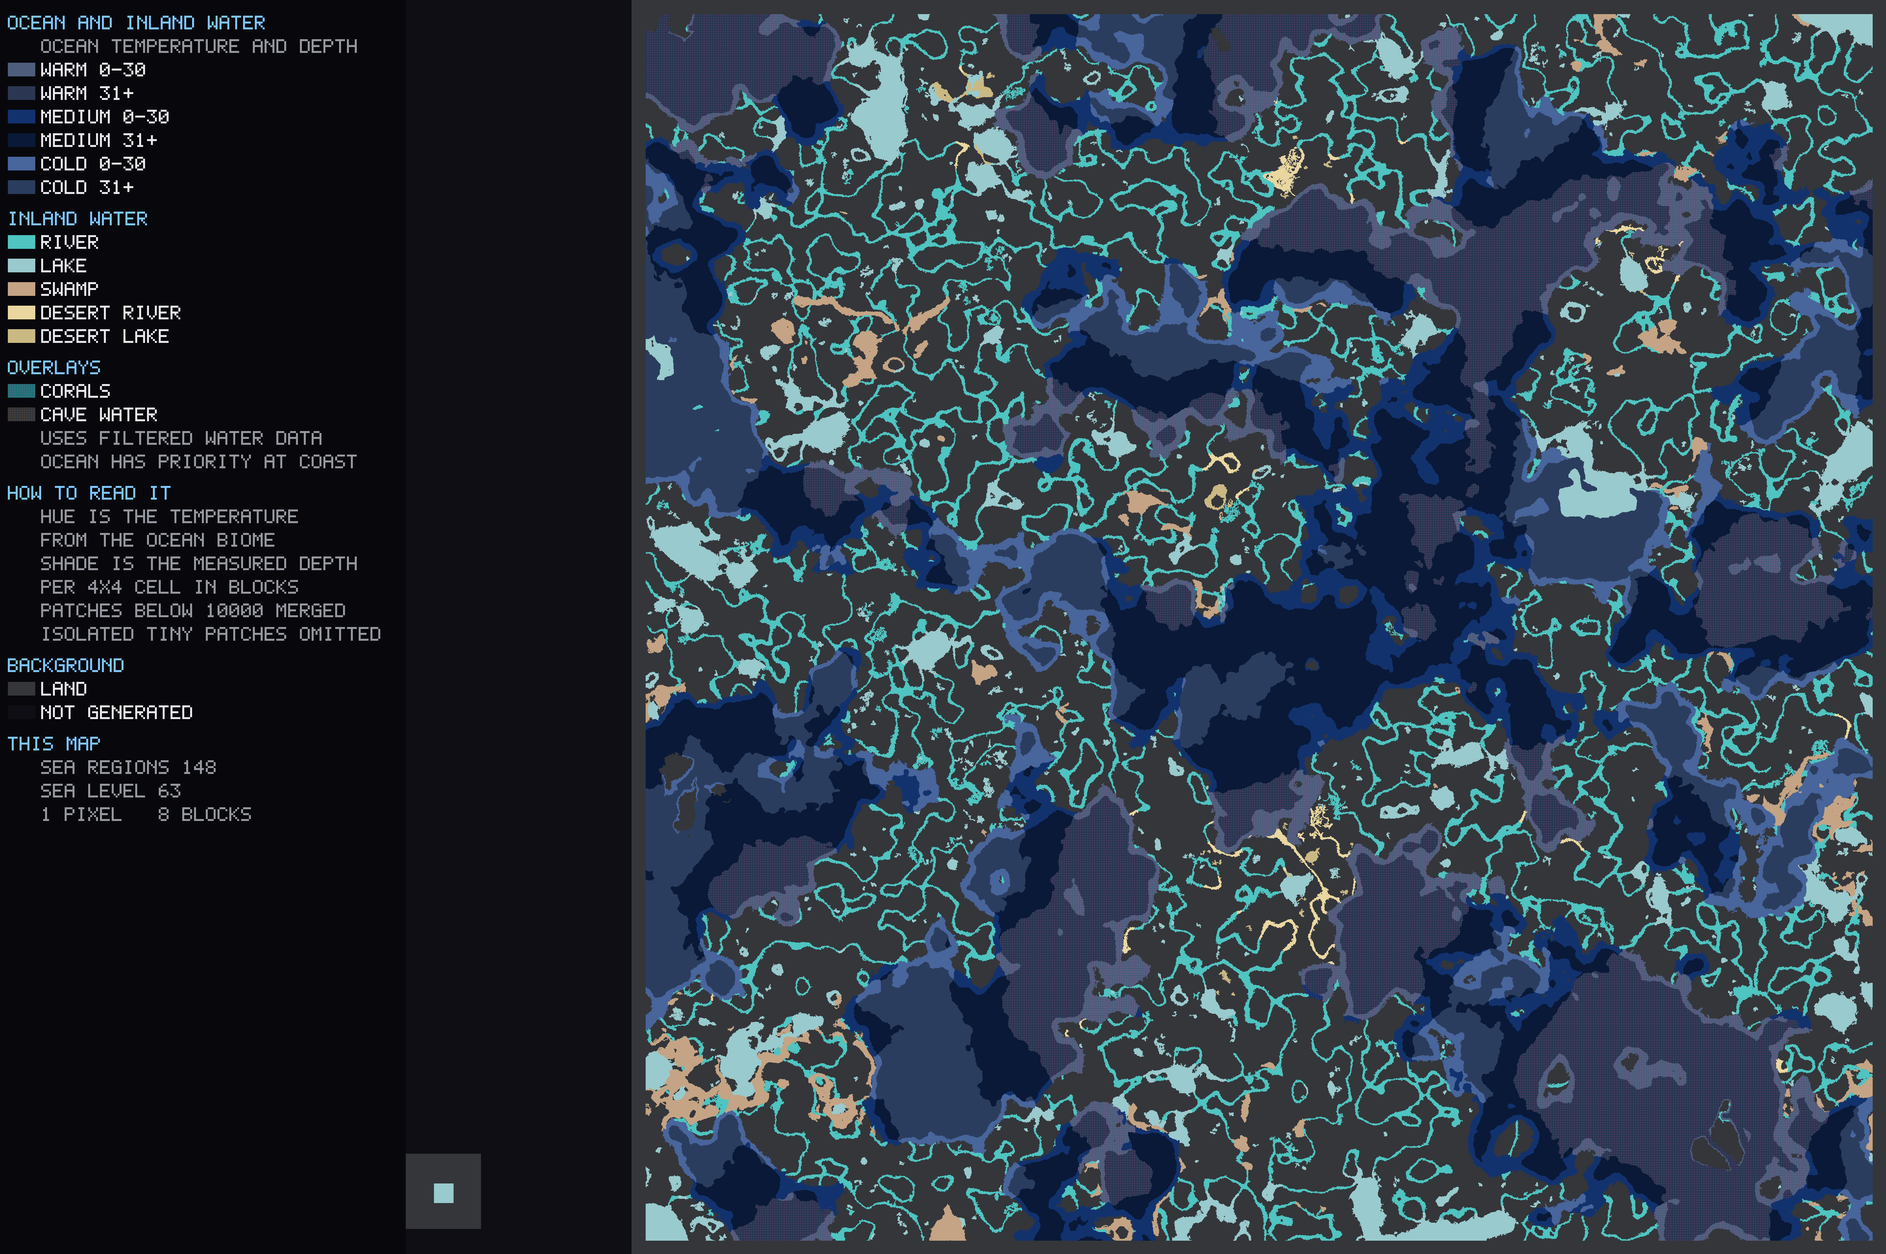
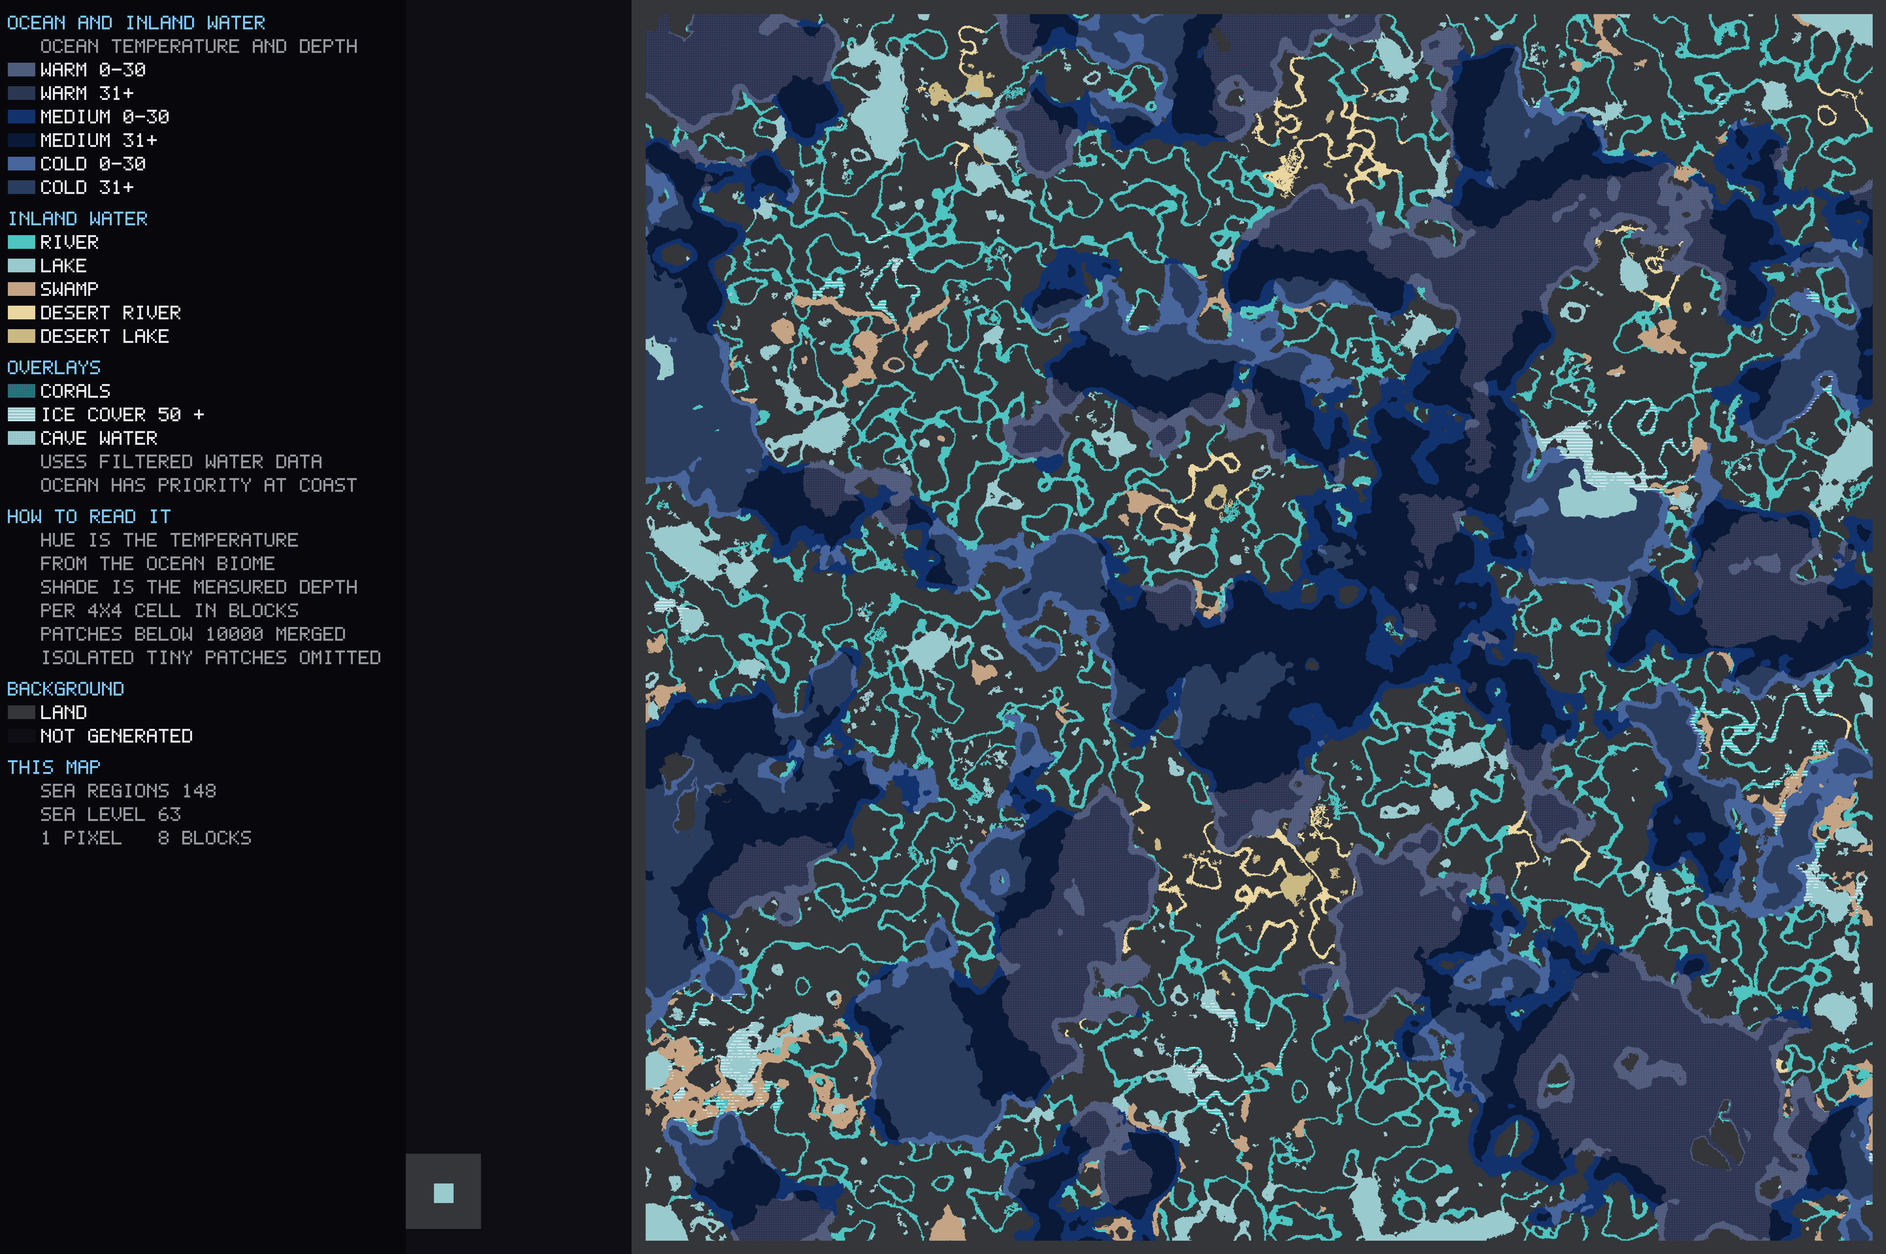
Render ice cover and classify vanilla badlands

diff --git a/src/debug/map.rs b/src/debug/map.rs
@@ -37,6 +37,7 @@ const RIVER_COLOR: [u8; 3] = [0x4f, 0xc4, 0xc1];
 const SWAMP_COLOR: [u8; 3] = [0xc4, 0xa4, 0x84];
 const CAVE_DOT_COLOR: [u8; 3] = [0x56, 0x5a, 0x60];
 const CORAL_DOT_COLOR: [u8; 3] = [0xff, 0x5a, 0xbe];
+const ICE_STRIPE_COLOR: [u8; 3] = [0xeb, 0xf8, 0xff];
 
 pub struct MapOptions {
     /// Blocks per pixel.
@@ -229,9 +230,6 @@ fn modifier_overlay(modifiers: Modifiers, x: usize, y: usize) -> Option<[u8; 3]>
     if let Some(color) = overview_modifier_overlay(modifiers, x, y) {
         return Some(color);
     }
-    if modifiers.contains(Modifiers::ICE) && (x + y) % 8 < 2 {
-        return Some([235, 248, 255]);
-    }
     if modifiers.contains(Modifiers::DESERT) && (x + 5 * y) % 11 < 2 {
         return Some([226, 200, 120]);
     }
@@ -241,19 +239,21 @@ fn modifier_overlay(modifiers: Modifiers, x: usize, y: usize) -> Option<[u8; 3]>
     None
 }
 
-/// Sparse overlays shared by the full classification and clean overview maps.
+/// Overlays shared by the full classification and clean overview maps.
 /// They only replace pixels already owned by a matching region; they never grow
-/// or fill its geometry. Cave dots sit on the normal river/lake/swamp colour so
-/// the water kind remains readable underneath the cave marker.
+/// or fill its geometry. Cave/coral dots and horizontal ice stripes sit on the
+/// normal water colour so the water kind remains readable underneath.
 fn overview_modifier_overlay(modifiers: Modifiers, x: usize, y: usize) -> Option<[u8; 3]> {
-    if x % 6 != 2 || y % 6 != 2 {
-        return None;
+    if x % 6 == 2 && y % 6 == 2 {
+        if modifiers.contains(Modifiers::CAVE) {
+            return Some(CAVE_DOT_COLOR);
+        }
+        if modifiers.contains(Modifiers::CORALS) {
+            return Some(CORAL_DOT_COLOR);
+        }
     }
-    if modifiers.contains(Modifiers::CAVE) {
-        return Some(CAVE_DOT_COLOR);
-    }
-    if modifiers.contains(Modifiers::CORALS) {
-        return Some(CORAL_DOT_COLOR);
+    if modifiers.contains(Modifiers::ICE) && y % 8 < 2 {
+        return Some(ICE_STRIPE_COLOR);
     }
     None
 }
@@ -861,17 +861,21 @@ fn inland_region_color(kind: WaterKind, modifiers: Modifiers) -> [u8; 3] {
 /// Paints the sea as a backdrop, then the inland water on top of it.
 ///
 /// Drawing order matters here and nowhere else: regions never overlap, but at
-/// eight blocks per pixel a river one chunk wide shares its pixel with the coast
-/// it runs into. Painting inland water last is what keeps it on the map.
+/// eight blocks per pixel several water kinds can share one output pixel. Lakes
+/// are painted first, then rivers, then swamps, so a mangrove-swamp pixel cannot
+/// be hidden by an adjacent lake. Inland water remains above the flat sea in the
+/// standalone inland view.
 fn paint_inland(canvas: &mut Canvas, regions: &[WaterRegion], p: &Projection, include_sea: bool) {
     // The combined view gives existing ocean pixels priority at shared coastal
     // pixels. The standalone inland view keeps its river-first presentation.
     let ocean_palette: Vec<_> = [Temperature::Warm, Temperature::Medium, Temperature::Cold]
         .into_iter().flat_map(|t| [ocean_color(t, false), ocean_color(t, true)]).collect();
-    for sea_pass in [true, false] {
-        if sea_pass && !include_sea { continue; }
+    for kind in [WaterKind::Sea, WaterKind::Lake, WaterKind::River, WaterKind::Swamp] {
+        if kind == WaterKind::Sea && !include_sea {
+            continue;
+        }
         for region in regions {
-            if (region.kind == WaterKind::Sea) != sea_pass {
+            if region.kind != kind {
                 continue;
             }
             let color = inland_region_color(region.kind, region.modifiers);
@@ -890,12 +894,13 @@ fn paint_inland(canvas: &mut Canvas, regions: &[WaterRegion], p: &Projection, in
     }
 }
 
-/// Add coral and underground-water markers without changing any base map shape.
+/// Add coral, underground-water and ice-cover markers without changing any base
+/// map shape.
 fn paint_overview_modifiers(canvas: &mut Canvas, regions: &[WaterRegion], p: &Projection) {
     for region in regions.iter().filter(|region| {
         region
             .modifiers
-            .intersects(Modifiers::CORALS | Modifiers::CAVE)
+            .intersects(Modifiers::CORALS | Modifiers::CAVE | Modifiers::ICE)
     }) {
         for run in &region.geometry.runs {
             let (xa, y) = p.px(run.x0, run.z);
@@ -929,6 +934,10 @@ fn inland_rows(regions: &[WaterRegion], blocks_per_pixel: u32) -> Vec<Row> {
         heading("OVERLAYS"),
         entry("CORALS", Swatch::Pattern(inland_color(WaterKind::Sea), Modifiers::CORALS)),
         entry(
+            "ICE COVER 50%+",
+            Swatch::Pattern(inland_color(WaterKind::Lake), Modifiers::ICE),
+        ),
+        entry(
             "CAVE WATER",
             Swatch::Pattern(inland_color(WaterKind::Lake), Modifiers::CAVE),
         ),
@@ -958,6 +967,10 @@ fn combined_rows(regions: &[WaterRegion], sea_level: i16, blocks_per_pixel: u32,
         entry("DESERT LAKE", Swatch::Color(inland_region_color(WaterKind::Lake, Modifiers::DESERT))),
         heading("OVERLAYS"),
         entry("CORALS", Swatch::Pattern(inland_color(WaterKind::Sea), Modifiers::CORALS)),
+        entry(
+            "ICE COVER 50%+",
+            Swatch::Pattern(inland_color(WaterKind::Lake), Modifiers::ICE),
+        ),
         entry(
             "CAVE WATER",
             Swatch::Pattern(inland_color(WaterKind::Lake), Modifiers::CAVE),
@@ -1309,7 +1322,37 @@ mod tests {
     }
 
     #[test]
-    fn overview_dots_are_sparse_and_cave_takes_priority() {
+    fn swamp_wins_when_lake_and_swamp_share_an_output_pixel() {
+        let p = Projection::new((0, 0, 15, 15), 8);
+        let mut swamp = region(1, WaterKind::Swamp, Temperature::Warm, Some(Depth::Shallow));
+        swamp.modifiers = Modifiers::MANGROVE;
+        swamp.geometry = RegionGeometry {
+            min_x: 0,
+            min_z: 0,
+            max_x: 0,
+            max_z: 0,
+            runs: vec![Run { z: 0, x0: 0, x1: 0 }],
+            column_count: 1,
+        };
+        let mut lake = region(2, WaterKind::Lake, Temperature::Medium, Some(Depth::Shallow));
+        lake.geometry = RegionGeometry {
+            min_x: 7,
+            min_z: 0,
+            max_x: 7,
+            max_z: 0,
+            runs: vec![Run { z: 0, x0: 7, x1: 7 }],
+            column_count: 1,
+        };
+
+        // Deliberately put the lake last. Kind-priority painting, rather than the
+        // input order, must decide the shared 8x8 map pixel.
+        let mut canvas = Canvas::new(2, 2, BG_LAND);
+        paint_inland(&mut canvas, &[swamp, lake], &p, false);
+        assert_eq!(&canvas.px[0..3], &inland_color(WaterKind::Swamp));
+    }
+
+    #[test]
+    fn overview_patterns_are_sparse_horizontal_and_cave_takes_priority() {
         assert_eq!(
             overview_modifier_overlay(Modifiers::CORALS, 2, 2),
             Some(CORAL_DOT_COLOR)
@@ -1324,6 +1367,19 @@ mod tests {
         );
         assert_eq!(overview_modifier_overlay(Modifiers::CORALS, 3, 2), None);
         assert_eq!(overview_modifier_overlay(Modifiers::CORALS, 2, 3), None);
+        for x in 0..16 {
+            assert_eq!(
+                overview_modifier_overlay(Modifiers::ICE, x, 0),
+                Some(ICE_STRIPE_COLOR),
+                "ice stripe must span the whole row"
+            );
+            assert_eq!(overview_modifier_overlay(Modifiers::ICE, x, 2), None);
+        }
+        assert_eq!(
+            overview_modifier_overlay(Modifiers::ICE | Modifiers::CAVE, 2, 2),
+            Some(CAVE_DOT_COLOR),
+            "cave dots must remain visible over ice"
+        );
         assert_eq!(overview_modifier_overlay(Modifiers::empty(), 2, 2), None);
     }
 
@@ -1354,6 +1410,40 @@ mod tests {
             assert_eq!(pixel(3, 2), inland_color(kind), "overlay is not sparse");
             assert_eq!(pixel(2, 1), BG_LAND, "pixel outside the run was marked");
         }
+    }
+
+    #[test]
+    fn ice_overlay_is_horizontal_and_stays_inside_region_geometry() {
+        let p = Projection::new((0, 0, 9, 9), 1);
+        let mut marked = region(0, WaterKind::Lake, Temperature::Cold, Some(Depth::Shallow));
+        marked.modifiers = Modifiers::ICE;
+        marked.geometry = RegionGeometry {
+            min_x: 2,
+            min_z: 0,
+            max_x: 6,
+            max_z: 2,
+            runs: vec![
+                Run { z: 0, x0: 2, x1: 6 },
+                Run { z: 1, x0: 2, x1: 6 },
+                Run { z: 2, x0: 2, x1: 6 },
+            ],
+            column_count: 15,
+        };
+        let mut canvas = Canvas::new(10, 10, BG_LAND);
+        paint_inland(&mut canvas, std::slice::from_ref(&marked), &p, true);
+        paint_overview_modifiers(&mut canvas, &[marked], &p);
+
+        let pixel = |x: usize, y: usize| {
+            let i = (y * canvas.w + x) * 3;
+            [canvas.px[i], canvas.px[i + 1], canvas.px[i + 2]]
+        };
+        for x in 2..=6 {
+            assert_eq!(pixel(x, 0), ICE_STRIPE_COLOR);
+            assert_eq!(pixel(x, 1), ICE_STRIPE_COLOR);
+            assert_eq!(pixel(x, 2), inland_color(WaterKind::Lake));
+        }
+        assert_eq!(pixel(1, 0), BG_LAND, "stripe grew outside the region");
+        assert_eq!(pixel(7, 1), BG_LAND, "stripe grew outside the region");
     }
 
     #[test]

diff --git a/src/world/biome.rs b/src/world/biome.rs
@@ -109,9 +109,13 @@ fn traits_of(id: &str) -> BiomeTraits {
     {
         t |= BiomeTraits::FROZEN;
     }
-    // The map's sand category is explicitly desert and canyon, not every
-    // low-rainfall biome or terrain type that might look dry.
-    if contains_any(id, &["desert", "canyon"]) {
+    // The map's sand category is explicitly desert, canyon and the three vanilla
+    // badlands variants, not every low-rainfall biome or terrain type that might
+    // look dry. Exact badlands names avoid pulling in Terralith biomes such as
+    // snowy_badlands or savanna_badlands.
+    if contains_any(id, &["desert", "canyon"])
+        || matches!(id, "badlands" | "eroded_badlands" | "wooded_badlands")
+    {
         t |= BiomeTraits::DESERT;
     }
     if id.contains("mangrove") {
@@ -550,13 +554,16 @@ mod tests {
     }
 
     #[test]
-    fn desert_category_is_limited_to_desert_and_canyon_names() {
+    fn desert_category_is_limited_to_desert_canyon_and_vanilla_badlands_names() {
         for (name, temperature, downfall) in [
             ("minecraft:desert", 2.0, 0.0),
             ("terralith:desert_oasis", 2.0, 0.0),
             ("terralith:desert_canyon", 2.0, 0.0),
             ("terralith:bryce_canyon", 2.0, 0.0),
             ("terralith:amethyst_canyon", 0.95, 0.9),
+            ("minecraft:badlands", 2.0, 0.0),
+            ("minecraft:eroded_badlands", 2.0, 0.0),
+            ("minecraft:wooded_badlands", 2.0, 0.0),
         ] {
             assert!(BiomeInfo::derive(name, temperature, downfall).traits
                 .contains(BiomeTraits::DESERT), "{name}");
@@ -564,7 +571,8 @@ mod tests {
         for (name, temperature, downfall) in [
             ("minecraft:savanna", 1.2, 0.0),
             ("minecraft:savanna_plateau", 1.2, 0.0),
-            ("minecraft:badlands", 2.0, 0.0),
+            ("terralith:savanna_badlands", 1.2, 0.0),
+            ("terralith:snowy_badlands", -0.7, 0.4),
             ("terralith:brushland", 1.2, 0.2),
             ("terralith:steppe", 0.4, -0.5),
             ("terralith:arid_highlands", 1.6, 0.1),

diff --git a/src/water/scanner.rs b/src/water/scanner.rs
@@ -879,14 +879,16 @@ mod tests {
         let (mut buf, mut scratch, parsed) = swamp_fixture(true);
         let registry = BiomeRegistry::vanilla_only();
         assert_eq!(scan_dryland(&buf, &parsed, &scratch, &registry, &mut [0; 256]), 0);
-        // Reuse the packed heightmap, but make every block solid. Only desert
-        // banks count; savanna and other dry terrain must stay unmarked.
+        // Reuse the packed heightmap, but make every block solid. Only desert,
+        // canyon and vanilla badlands banks count; savanna stays unmarked.
         scratch.sections[0].block_pal = (1, 1);
         for (name, expected) in [
             ("minecraft:desert", u16::MAX),
             ("minecraft:savanna", 0),
             ("minecraft:savanna_plateau", 0),
-            ("minecraft:badlands", 0),
+            ("minecraft:badlands", u16::MAX),
+            ("minecraft:eroded_badlands", u16::MAX),
+            ("minecraft:wooded_badlands", u16::MAX),
             ("minecraft:plains", 0),
         ] {
             scratch.palette[6].off = buf.len() as u32;

diff --git a/src/water/classifier.rs b/src/water/classifier.rs
@@ -861,12 +861,21 @@ mod tests {
             .modifiers
             .contains(Modifiers::ICE));
 
-        let mut frozen = RegionAccum {
+        let mut partly_frozen = RegionAccum {
             signature: signature(WaterKind::Lake, Temperature::Cold, false, false),
             ..Default::default()
         };
-        frozen.add_cell(&registry, id, 62, 4, 0.9, 0.0, false, false, 1000);
-        assert!(finalize(2, &frozen, &registry)
+        partly_frozen.add_cell(&registry, id, 62, 4, 0.49, 0.0, false, false, 1000);
+        assert!(!finalize(2, &partly_frozen, &registry)
+            .modifiers
+            .contains(Modifiers::ICE));
+
+        let mut half_frozen = RegionAccum {
+            signature: signature(WaterKind::Lake, Temperature::Cold, false, false),
+            ..Default::default()
+        };
+        half_frozen.add_cell(&registry, id, 62, 4, 0.5, 0.0, false, false, 1000);
+        assert!(finalize(3, &half_frozen, &registry)
             .modifiers
             .contains(Modifiers::ICE));
     }

diff --git a/src/config.rs b/src/config.rs
@@ -208,7 +208,7 @@ pub const VEG_PLANT_DEMOTE_SHARE: f32 = 0.02;
 // ---------------------------------------------------------------------------
 
 /// Share of a region's water columns that must be covered by ice for `ICE`.
-pub const ICE_MIN_SHARE: f32 = 0.15;
+pub const ICE_MIN_SHARE: f32 = 0.50;
 
 /// Share of a region's chunks that must contain coral blocks for `CORALS`.
 pub const CORAL_MIN_SHARE: f32 = 0.02;

diff --git a/README.md b/README.md
@@ -16,7 +16,7 @@ mountains. Flowing/falling water and lower water surfaces are excluded before
 classification; merging and the 2,000-column minimum then remove small regions.
 The current export contains 2,550 regions: 148 seas, 1,304 rivers, 946 lakes and
 152 swamps. Raw mud contributes to the 7.89 million square blocks of swamp;
-the desert/canyon modifier applies to 101 regions. Broad-core support separates
+the desert/canyon/vanilla-badlands modifier applies to 149 regions. Broad-core support separates
 lake basins from wide rivers, with a compactness exception for small lakes.
 Retained bodies without an ocean path become lakes up to 5,000 blocks; larger
 closed bodies up to 500,000 blocks also require a compact, non-channel-like shape.
@@ -27,10 +27,11 @@ Paint over non-water, oceans and swamps is excluded.
 This is agreement on the tuning mask, not a whole-world accuracy claim. See the
 [settings, evaluation and limitations](docs/lake-detection.md#mask-calibration).
 Modifier textures appear on `debug/water_map.png`; the clean inland and combined
-overviews also mark coral regions with magenta dots and underground cave water
-with dark-grey dots. These sparse overlays replace pixels only inside the original
-region geometry, while the normal river, lake or swamp colour remains visible
-underneath. This height-filtered sample has no `CAVE`
+overviews also mark coral regions with magenta dots, underground cave water with
+dark-grey dots, and regions whose measured water surface is at least 50% ice-covered
+with white horizontal stripes. These texture overlays replace pixels only inside
+the original region geometry, while the normal river, lake or swamp colour remains
+visible underneath. This height-filtered sample has no `CAVE`
 regions because covered water above the cutoff remains part of the surface
 network; omit the height filter to produce separately classified cave water.
 The earlier classifier produced 2,336 regions. The additional lake/channel cuts
@@ -60,7 +61,7 @@ removes small isolated ones. Desert rivers and lakes use lighter sand colours.
 <details>
 <summary>Coral and cave overlays with unrestricted cave scanning</summary>
 
-![Minecraft water map with magenta coral dots and dark-grey cave-water dots](docs/images/minecraft-coral-cave-map.png)
+![Minecraft water map with magenta coral dots, dark-grey cave-water dots and white horizontal ice stripes](docs/images/minecraft-coral-cave-map.png)
 
 </details>
 
@@ -213,13 +214,14 @@ validation aids:
 * `water_combined_map.png` - cleaned ocean temperature/depth zones with rivers,
   lakes and swamps, and a shared legend. Ocean pixels take priority wherever
   coastal water shares an output pixel with an inland region. Magenta dots mark
-  coral regions and dark-grey dots mark cave water without hiding its water kind
-  or changing either outline.
+  coral regions, dark-grey dots mark cave water, and white horizontal stripes mark
+  regions whose measured surface is at least 50% ice-covered. The overlays do not
+  hide the water kind or change any outline.
 * `water_inland_map.png` - the mirror image of the ocean map: the sea flattened to
   one green-blue backdrop, with the rivers, lakes and swamps picked out against
   it. Inland water is drawn after the sea, because at eight blocks per pixel a
   river shares its pixel with the coast it runs into and would otherwise vanish.
-  It carries the same sparse coral and cave overlays as the combined map.
+  It carries the same coral, cave and ice-cover overlays as the combined map.
 * `water_ocean_map.png` - the seas on their own in six colours: muted blue, navy and
   slate blue for warm, medium and cold, each in a shelf and a basin shade.
   Only two depth steps rather than the model's three, because this world's ocean
@@ -569,13 +571,16 @@ not, and the data says so.
 
 ### 7. Modifiers
 
-* `ICE` - the surface block really is ice with water underneath. A cold biome is
-  not enough. Ice is part of the region signature, so a frozen ocean does not
-  dissolve into the cold ocean next to it.
+* `ICE` - at least 50% of the region's measured water columns have real ice with
+  water underneath. A cold biome is not enough. White horizontal stripes show the
+  modifier without replacing the river, lake, swamp or ocean colour. Ice is part
+  of the local region signature, so a frozen ocean does not dissolve into the cold
+  ocean next to it.
 * `CORALS` - living coral blocks / fans found near the ocean floor. Dead coral does
   not count.
-* `DESERT` - inland water in desert or canyon biomes. It retains its water kind;
-  `desert` is a modifier.
+* `DESERT` - inland water in desert or canyon biomes, plus vanilla `badlands`,
+  `eroded_badlands` and `wooded_badlands`. It retains its water kind; `desert` is
+  a modifier. Other dry biomes such as savanna remain excluded.
 * `MANGROVE` - mangrove water. Also a modifier; the kind stays `swamp`.
 * `CAVE` - the water cannot see the sky. Cave regions are always `lake` - there is
   no sea, river or swamp without a sky - and they never merge with water above
@@ -671,8 +676,9 @@ this commit. Thread count affects speed only. The command uses a height cutoff
 and retains covered mountain rivers.
 For the unrestricted cave scan, remove `--max-below-sea-level 10`. The default
 `--min-cave-body 4000` filters small cave-classified pools, while dark-grey dots
-show the retained cave geometry over its normal water-kind colour and magenta dots
-show coral regions on the inland and combined maps.
+show the retained cave geometry over its normal water-kind colour, magenta dots
+show coral regions, and white horizontal stripes show water regions with at least
+50% measured ice cover on the inland and combined maps.
 Cave pools dominate the total region count in the example world, so filtering
 them has a much larger effect on the total than changing surface-water labels.
 
